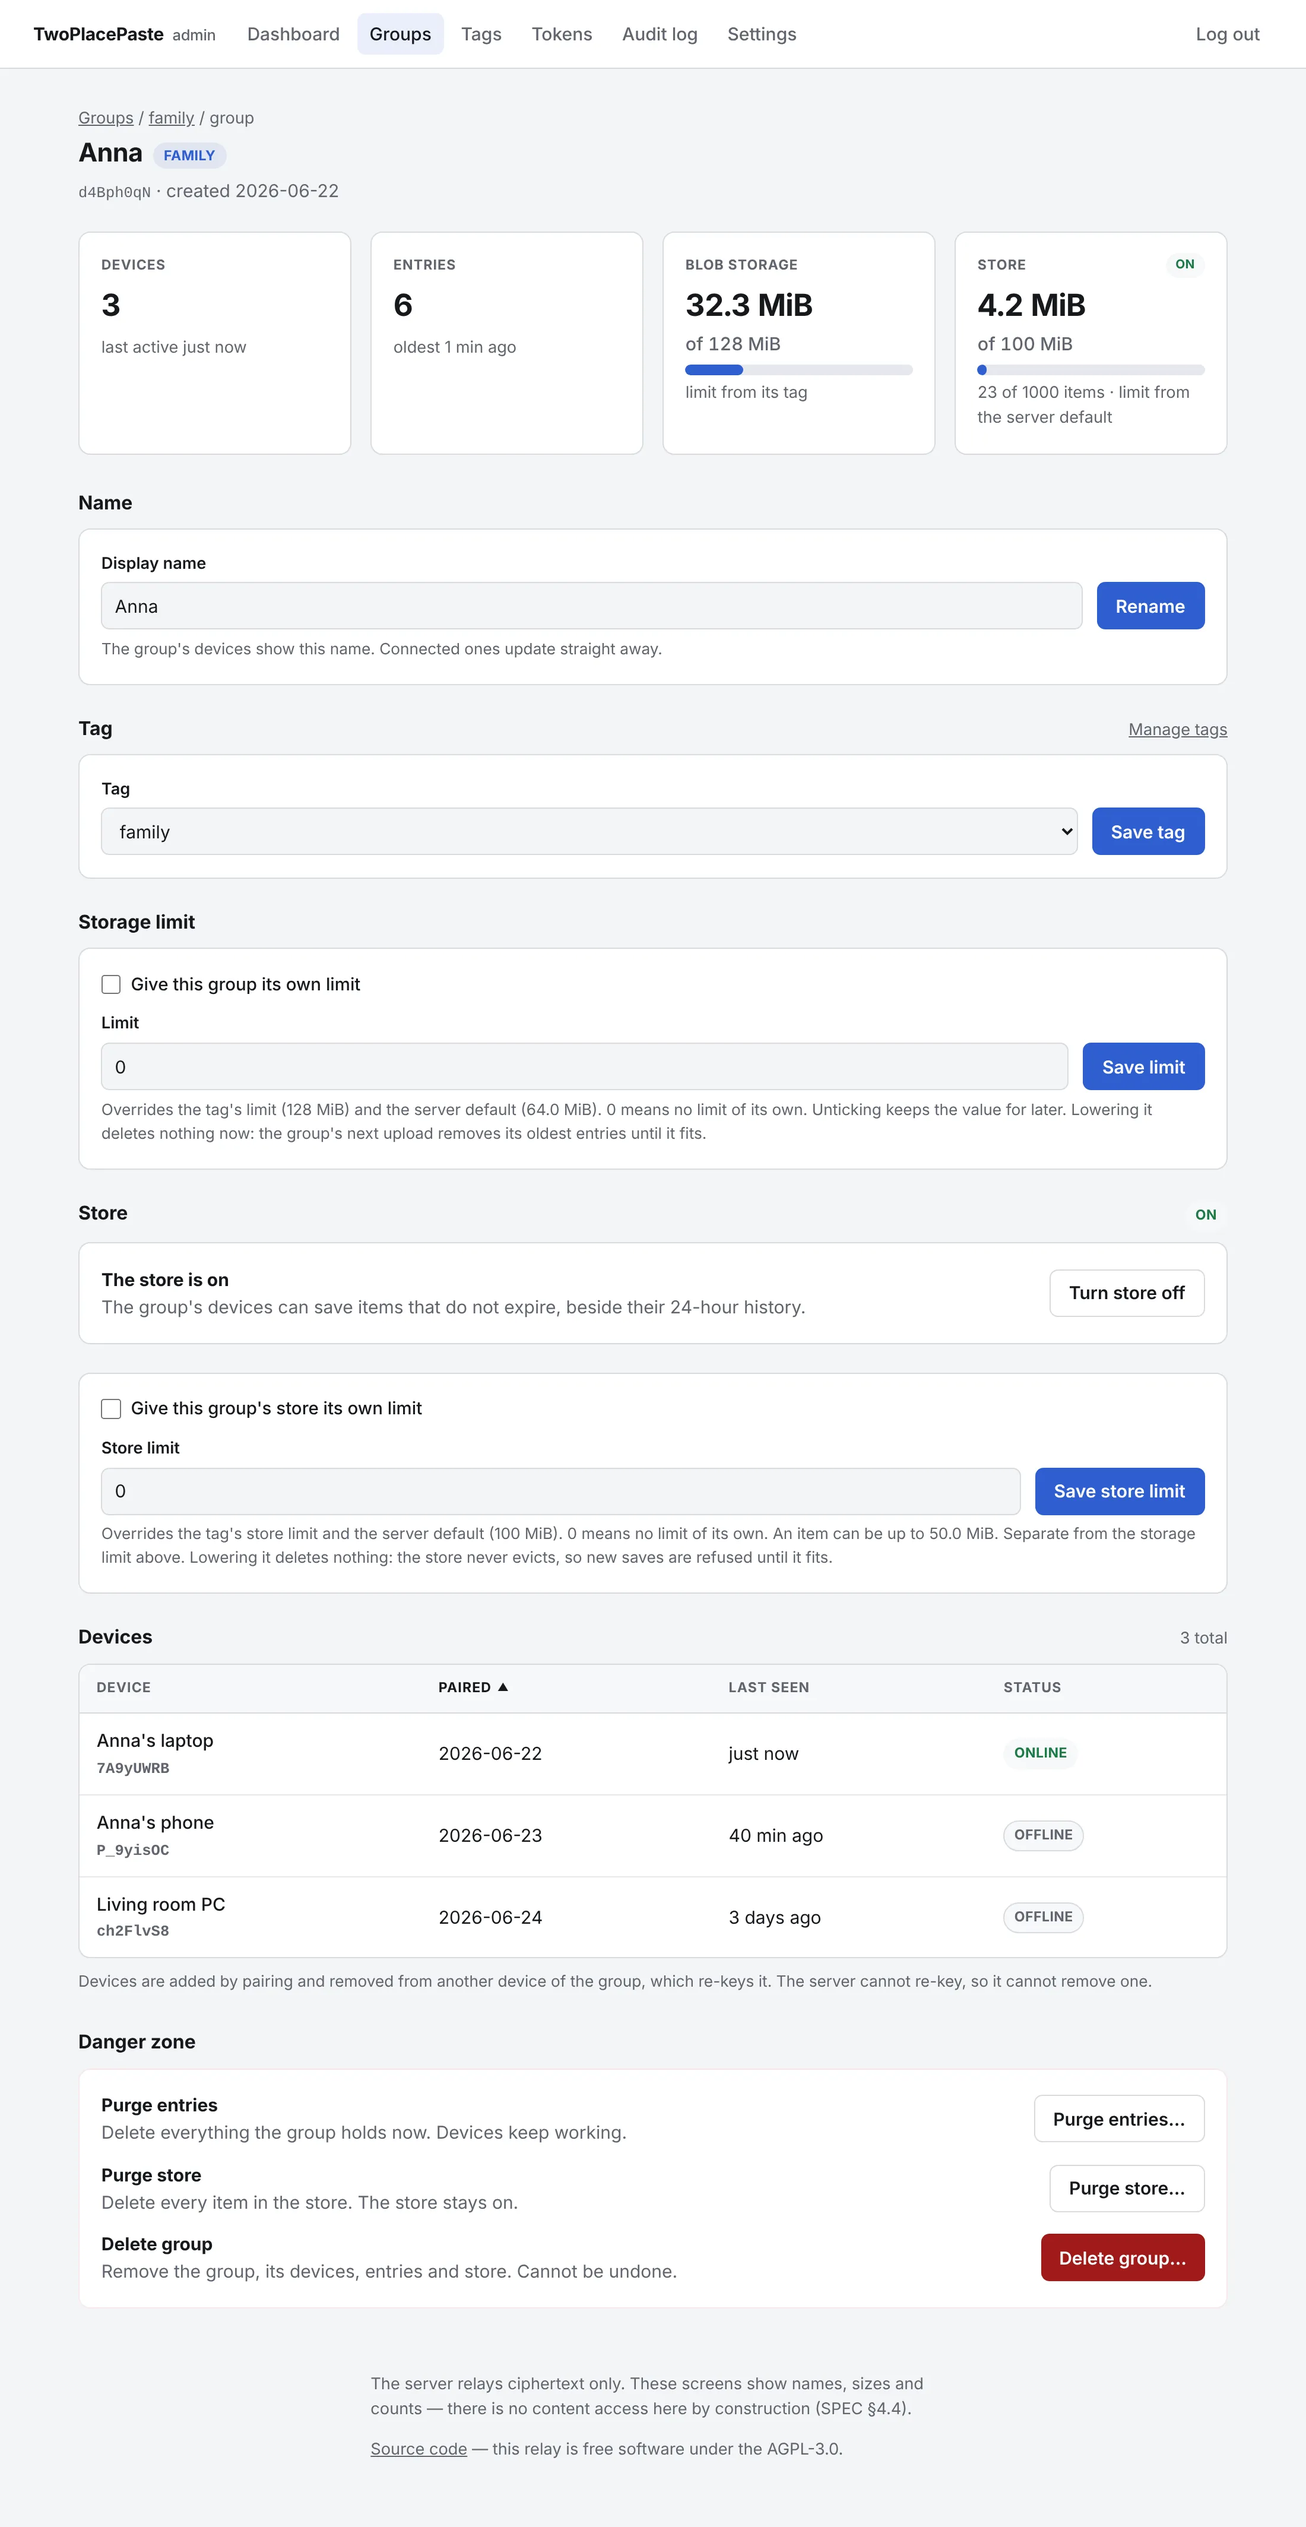
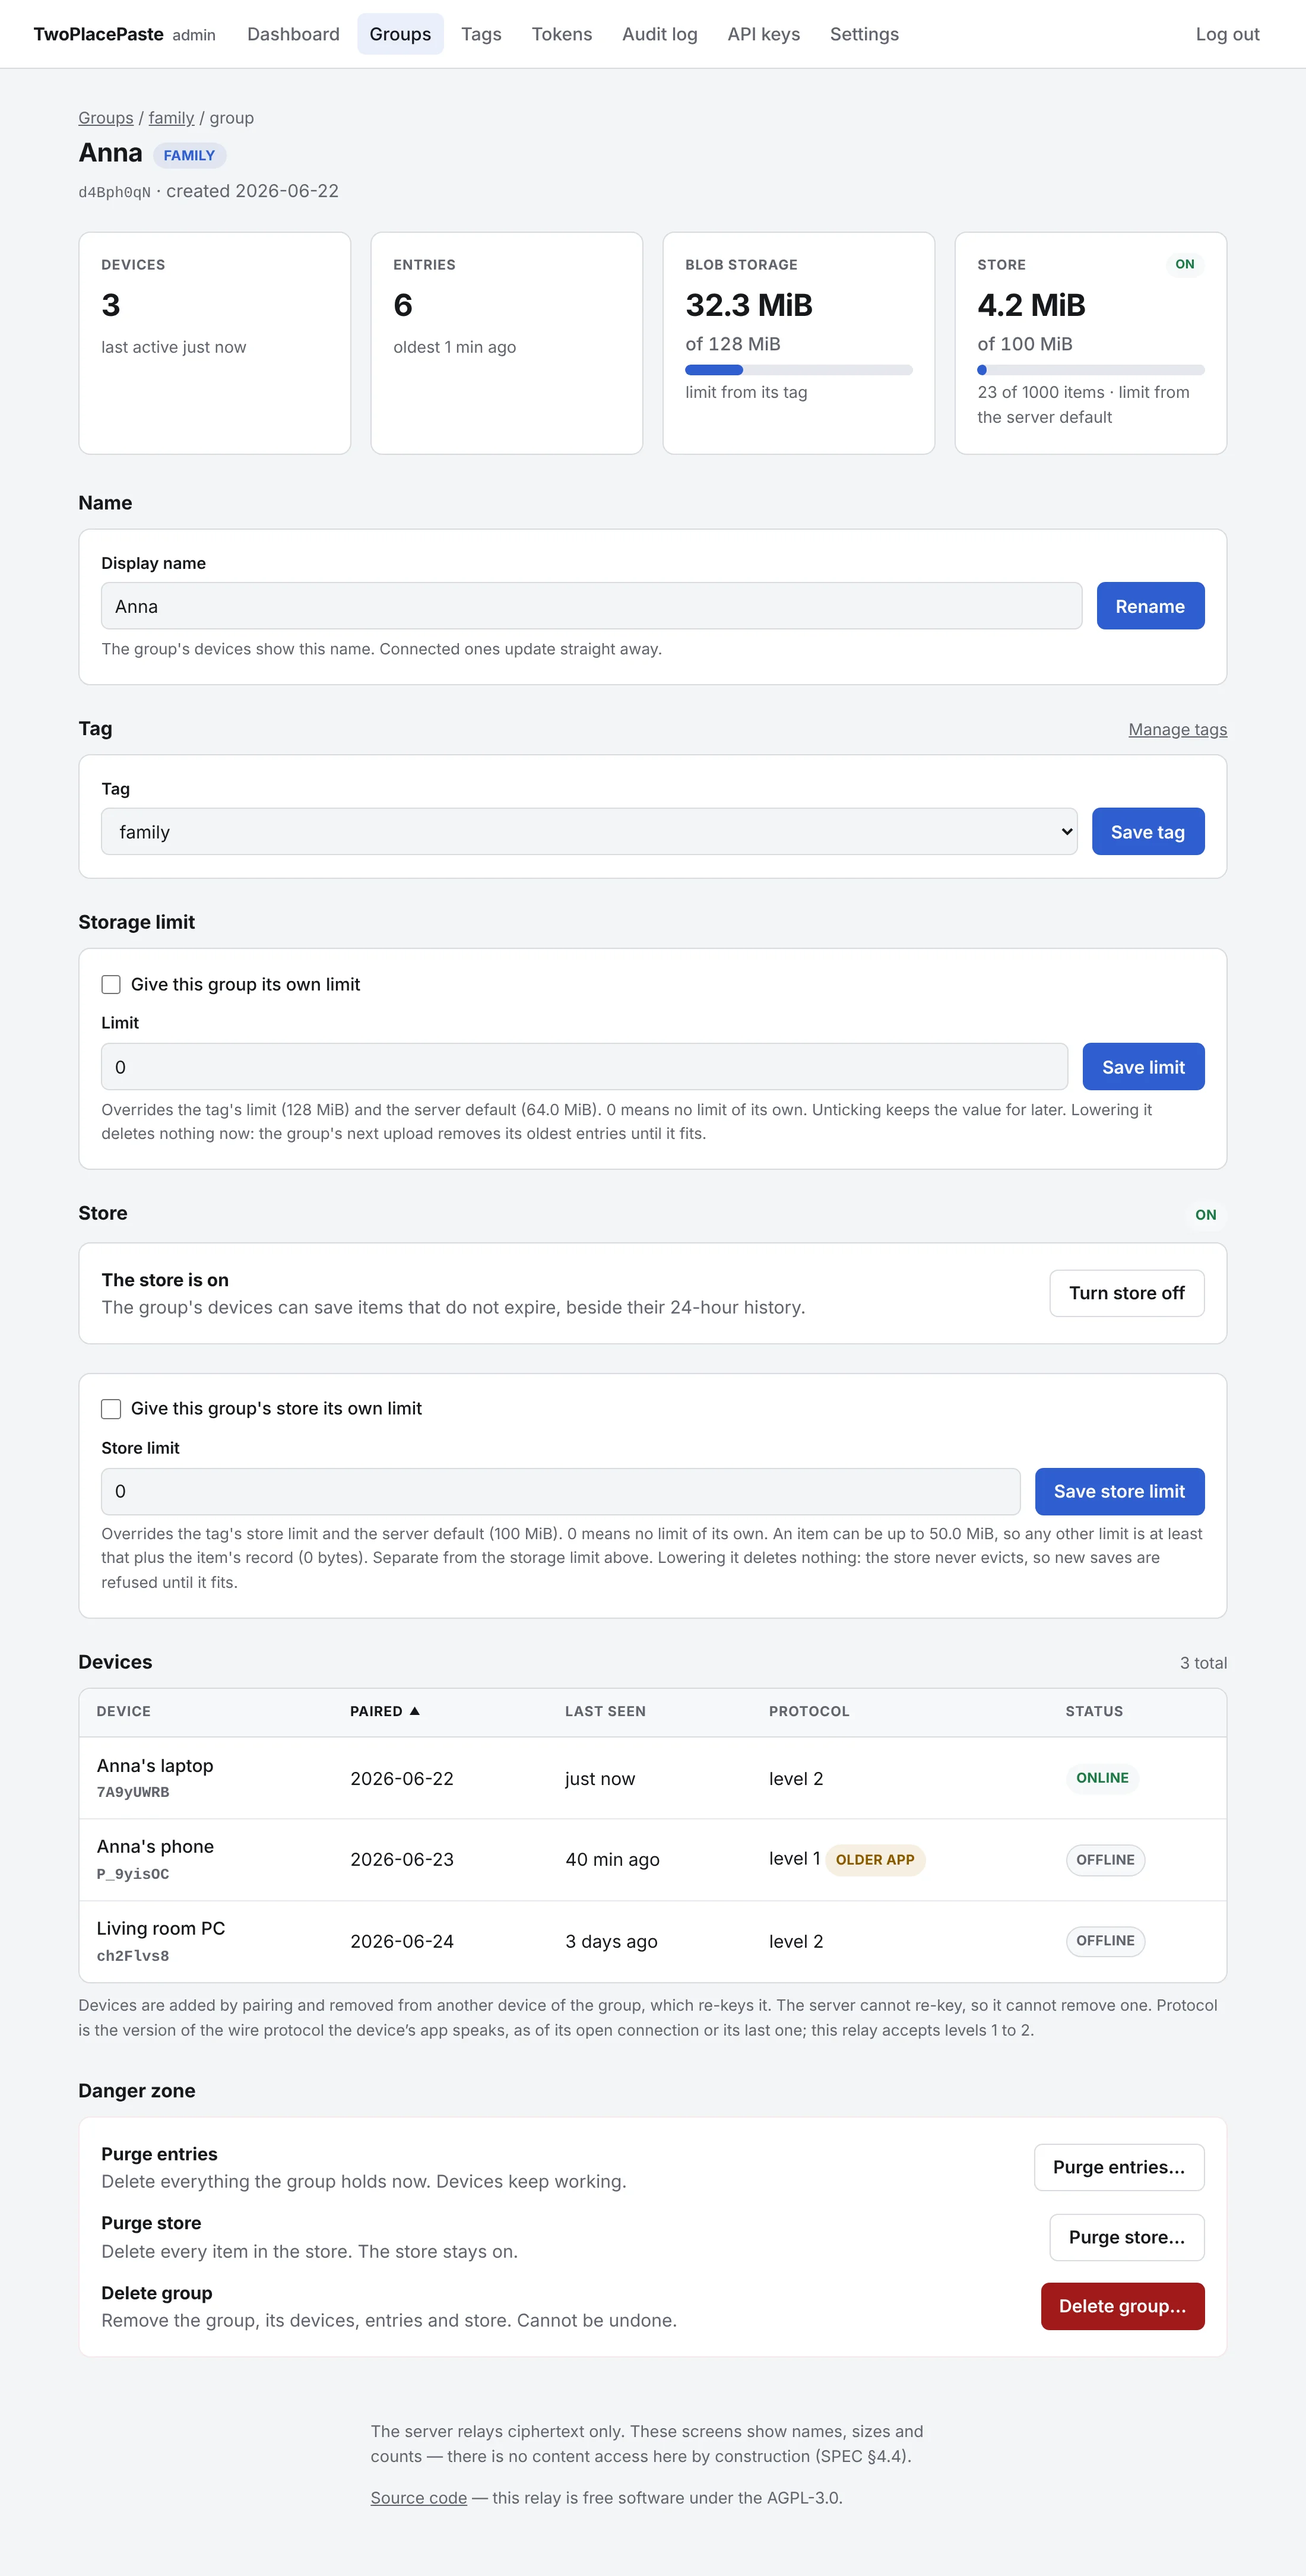
Show each device's protocol level in the admin UI
The group page's device list gains a Protocol column: the level of the
device's open socket while it is online, else the level it last
connected with, else "not known yet" (SPEC §5.3). A device below the
relay's maximum is marked "older app", one below its minimum "update
needed", so an operator sees who an upgrade would leave behind.

- ws: OnlineLevels reports the level each connected device stated.
- admin: the group JSON carries protocol_level per device and the
  relay's accepted range; cmd/tpp passes ws.ProtocolMin/Max in.
- Docs: the column in the admin guide, and a retaken admin-group
  screenshot.

Claude-Session: https://claude.ai/code/session_01VGT5JBQ7Rro1HXKLoBLzLE

diff --git a/server/ui/src/pages/GroupPage.tsx b/server/ui/src/pages/GroupPage.tsx
@@ -1,5 +1,5 @@
 import { useId, useState } from "react";
-import { api, type Device, type GroupDetail, type GroupStore, type LimitChange } from "../api";
+import { api, type Device, type GroupDetail, type GroupStore, type LimitChange, type ProtocolRange } from "../api";
 import { Badge, GroupBadges, StoreBadge } from "../components/Badge";
 import { SectionHead, StatCard } from "../components/Card";
 import { useLimitForm } from "../components/LimitFields";
@@ -380,7 +380,28 @@ function StoreSection({
   );
 }
 
-const deviceColumns: Column<Device>[] = [
+/**
+ * protocolCell shows a device's protocol level, and whether it is behind the
+ * relay: below the minimum it can no longer connect until its app is updated;
+ * below the maximum it works, without what the newer levels added.
+ */
+function protocolCell(d: Device, relay: ProtocolRange) {
+  if (d.protocol_level === null) {
+    return <span className="muted">not known yet</span>;
+  }
+  return (
+    <>
+      level {d.protocol_level}{" "}
+      {d.protocol_level < relay.min ? (
+        <Badge kind="bad">update needed</Badge>
+      ) : d.protocol_level < relay.max ? (
+        <Badge kind="warn">older app</Badge>
+      ) : null}
+    </>
+  );
+}
+
+const deviceColumns = (relay: ProtocolRange): Column<Device>[] => [
   {
     key: "name",
     header: "Device",
@@ -408,6 +429,12 @@ const deviceColumns: Column<Device>[] = [
     render: (d) => ago(Date.now(), d.last_seen, "never"),
   },
   {
+    key: "protocol",
+    header: "Protocol",
+    sortValue: (d) => d.protocol_level ?? 0,
+    render: (d) => protocolCell(d, relay),
+  },
+  {
     key: "status",
     header: "Status",
     firstDir: "desc",
@@ -425,7 +452,7 @@ function Devices({ data }: { data: GroupDetail }) {
       <SmartTable<Device>
         caption="Devices"
         rows={data.devices}
-        columns={deviceColumns}
+        columns={deviceColumns(data.protocol)}
         rowKey={(d) => d.short_id + d.created_at}
         defaultSort={{ key: "paired", dir: "asc" }}
         emptyText="This group has no devices left."
@@ -433,7 +460,9 @@ function Devices({ data }: { data: GroupDetail }) {
       {data.devices.length > 0 && (
         <p className="hint spaced">
           Devices are added by pairing and removed from another device of the group, which re-keys it. The server
-          cannot re-key, so it cannot remove one.
+          cannot re-key, so it cannot remove one. Protocol is the version of the wire protocol the device&rsquo;s app
+          speaks, as of its open connection or its last one; this relay accepts levels {data.protocol.min} to{" "}
+          {data.protocol.max}.
         </p>
       )}
     </>

diff --git a/server/ui/src/api/types.ts b/server/ui/src/api/types.ts
@@ -150,11 +150,24 @@ export interface Device {
   created_at: string;
   last_seen: string | null;
   online: boolean;
+  /**
+   * The protocol level the device speaks: its open socket's while online,
+   * else the last one it connected with. Null before it has connected since
+   * the relay began recording levels.
+   */
+  protocol_level: number | null;
+}
+
+/** ProtocolRange is the lowest and highest protocol level the relay accepts. */
+export interface ProtocolRange {
+  min: number;
+  max: number;
 }
 
 export interface GroupDetail {
   group: Group;
   devices: Device[];
+  protocol: ProtocolRange;
   own_limit: Limit;
   tag_limit_bytes: number | null;
   default_limit_bytes: number;

diff --git a/server/internal/admin/groups_test.go b/server/internal/admin/groups_test.go
@@ -24,13 +24,17 @@ import (
 type fakeLive struct {
 	mu      sync.Mutex
 	online  map[string]bool
+	levels  map[string]uint32
 	renamed map[string]string
 	closed  []string
 	store   map[string]bool
 }
 
 func newFakeLive() *fakeLive {
-	return &fakeLive{online: make(map[string]bool), renamed: make(map[string]string), store: make(map[string]bool)}
+	return &fakeLive{
+		online: make(map[string]bool), levels: make(map[string]uint32),
+		renamed: make(map[string]string), store: make(map[string]bool),
+	}
 }
 
 func (l *fakeLive) OnlineDevices(string) map[string]bool {
@@ -38,6 +42,16 @@ func (l *fakeLive) OnlineDevices(string) map[string]bool {
 	defer l.mu.Unlock()
 	out := make(map[string]bool, len(l.online))
 	for k, v := range l.online {
+		out[k] = v
+	}
+	return out
+}
+
+func (l *fakeLive) OnlineLevels(string) map[string]uint32 {
+	l.mu.Lock()
+	defer l.mu.Unlock()
+	out := make(map[string]uint32, len(l.levels))
+	for k, v := range l.levels {
 		out[k] = v
 	}
 	return out
@@ -126,6 +140,7 @@ func newGroupFixture(t *testing.T, limits quota.Limits, rds admin.RedisInfo) *gr
 		o.Redis = rds
 		o.Version = "v9.9.9 (abc123)"
 		o.OperatorURL = "https://tpp.example.com/help"
+		o.Protocol = admin.ProtocolRange{Min: 1, Max: 2}
 	})
 	return g
 }
@@ -931,5 +946,63 @@ func TestAuditNeverHoldsSecrets(t *testing.T) {
 	}
 	if !strings.Contains(page, `"kept":1000`) || !strings.Contains(page, `"target":"Dora"`) {
 		t.Errorf("audit page = %s, want the kept count and the new token's name", page)
+	}
+}
+
+// TestGroupPageShowsProtocolLevels: each device's protocol level is its open
+// socket's while it is online, else the last one it connected with, and none
+// before it has connected since levels were recorded (SPEC §5.3).
+func TestGroupPageShowsProtocolLevels(t *testing.T) {
+	t.Parallel()
+	g := newGroupFixture(t, quota.Limits{}, nil)
+	ctx := context.Background()
+	id, laptop := g.group(t, "Anna")
+	phone, err := g.store.AddDevice(ctx, id, store.NewDevice{Name: "phone", PublicKey: []byte("pk2")})
+	if err != nil {
+		t.Fatalf("AddDevice() error = %v", err)
+	}
+	if _, err := g.store.AddDevice(ctx, id, store.NewDevice{Name: "tablet", PublicKey: []byte("pk3")}); err != nil {
+		t.Fatalf("AddDevice() error = %v", err)
+	}
+	// The laptop connected at level 1 before and is online at level 2 now;
+	// the phone was last seen at level 1; the tablet never connected.
+	for _, dev := range []string{laptop, phone.ID} {
+		if err := g.store.TouchLastSeen(ctx, dev, 1); err != nil {
+			t.Fatalf("TouchLastSeen() error = %v", err)
+		}
+	}
+	g.live.mu.Lock()
+	g.live.online[laptop] = true
+	g.live.levels[laptop] = 2
+	g.live.mu.Unlock()
+
+	c := g.client()
+	g.login(c)
+	type page struct {
+		Protocol struct {
+			Min uint32 `json:"min"`
+			Max uint32 `json:"max"`
+		} `json:"protocol"`
+		Devices []struct {
+			Name          string  `json:"name"`
+			ProtocolLevel *uint32 `json:"protocol_level"`
+		} `json:"devices"`
+	}
+	got := readJSON[page](t, g.get(c, "/admin/api/groups/"+admin.HandleOf(id)))
+	if got.Protocol.Min != 1 || got.Protocol.Max != 2 {
+		t.Errorf("protocol = %+v, want [1, 2]", got.Protocol)
+	}
+	want := map[string]uint32{"Anna's laptop": 2, "phone": 1, "tablet": 0}
+	for _, d := range got.Devices {
+		var level uint32
+		if d.ProtocolLevel != nil {
+			level = *d.ProtocolLevel
+		}
+		if level != want[d.Name] {
+			t.Errorf("%s protocol_level = %d, want %d (0 meaning none)", d.Name, level, want[d.Name])
+		}
+	}
+	if len(got.Devices) != len(want) {
+		t.Errorf("%d devices, want %d", len(got.Devices), len(want))
 	}
 }

diff --git a/server/internal/admin/groups.go b/server/internal/admin/groups.go
@@ -302,7 +302,16 @@ type groupDetailJSON struct {
 
 	CanPurge bool `json:"can_purge"`
 
+	// Protocol is the range of protocol levels the relay accepts (SPEC
+	// §5.3), for marking devices on an older level.
+	Protocol protocolJSON `json:"protocol"`
+
 	Problems []string `json:"problems"`
+}
+
+type protocolJSON struct {
+	Min uint32 `json:"min"`
+	Max uint32 `json:"max"`
 }
 
 type deviceJSON struct {
@@ -311,6 +320,11 @@ type deviceJSON struct {
 	CreatedAt time.Time  `json:"created_at"`
 	LastSeen  *time.Time `json:"last_seen"`
 	Online    bool       `json:"online"`
+
+	// ProtocolLevel is the level the device speaks: its open socket's when it
+	// is online, else the last one it connected with. Nil when none is known
+	// yet: the device has not connected since the relay began recording.
+	ProtocolLevel *uint32 `json:"protocol_level"`
 }
 
 // groupDetailView builds one group's page.
@@ -332,6 +346,7 @@ func (s *Server) groupDetailView(ctx context.Context, g store.Group) groupDetail
 		MinLimitBytes:     s.minLimit(),
 		Tags:              make([]string, 0, len(tags)),
 		CanPurge:          s.purger != nil,
+		Protocol:          protocolJSON{Min: s.protocol.Min, Max: s.protocol.Max},
 	}
 	if t, ok := tags[g.Tag]; ok && t.Limit.Enabled {
 		b := t.Limit.Bytes
@@ -343,17 +358,22 @@ func (s *Server) groupDetailView(ctx context.Context, g store.Group) groupDetail
 	}
 	slices.Sort(v.Tags)
 
-	var online map[string]bool
+	var (
+		online map[string]bool
+		levels map[string]uint32
+	)
 	if s.live != nil {
 		online = s.live.OnlineDevices(g.ID)
+		levels = s.live.OnlineLevels(g.ID)
 	}
 	for _, d := range devices {
 		v.Devices = append(v.Devices, deviceJSON{
-			ShortID:   shortID(d.ID),
-			Name:      d.Name,
-			CreatedAt: d.CreatedAt.UTC(),
-			LastSeen:  timeOrNil(d.LastSeen),
-			Online:    online[d.ID],
+			ShortID:       shortID(d.ID),
+			Name:          d.Name,
+			CreatedAt:     d.CreatedAt.UTC(),
+			LastSeen:      timeOrNil(d.LastSeen),
+			Online:        online[d.ID],
+			ProtocolLevel: deviceLevel(d, levels),
 		})
 	}
 	v.Problems = probs.list
@@ -704,4 +724,17 @@ func plural[N ~int | ~int64](n N, one, many string) string {
 		return one
 	}
 	return many
+}
+
+// deviceLevel is the protocol level to show for a device: its open socket's,
+// else the last one it connected with, else none.
+func deviceLevel(d store.Device, live map[string]uint32) *uint32 {
+	level, ok := live[d.ID]
+	if !ok || level == 0 {
+		level = d.ProtocolLevel
+	}
+	if level == 0 {
+		return nil
+	}
+	return &level
 }

diff --git a/server/internal/admin/admin.go b/server/internal/admin/admin.go
@@ -106,8 +106,16 @@ type Store interface {
 // and telling a group's devices that it was renamed or deleted.
 type Live interface {
 	OnlineDevices(groupID string) map[string]bool
+	// OnlineLevels is the protocol level each connected device stated on its
+	// socket (SPEC §5.3).
+	OnlineLevels(groupID string) map[string]uint32
 	AnnounceRename(ctx context.Context, groupID, name string)
 	CloseGroup(groupID string)
+}
+
+// ProtocolRange is the lowest and highest protocol level the relay accepts.
+type ProtocolRange struct {
+	Min, Max uint32
 }
 
 // Purger deletes every entry of a group now.
@@ -196,6 +204,10 @@ type Options struct {
 	// shown on the health card with a button that opens it. Empty when none
 	// is set.
 	OperatorURL string
+
+	// Protocol is the range of protocol levels the relay accepts (SPEC
+	// §5.3), so the device list can mark a device on an older level.
+	Protocol ProtocolRange
 
 	// SessionTTL bounds a session's lifetime.
 	SessionTTL time.Duration
@@ -361,6 +373,7 @@ type Server struct {
 	dashboard Dashboard
 
 	live        Live
+	protocol    ProtocolRange
 	purger      Purger
 	limits      GroupLimits
 	storeSvc    StoreService
@@ -453,6 +466,7 @@ func New(st Store, opts Options) (*Server, error) {
 		version:       opts.Version,
 		startedAt:     startedAt,
 		operatorURL:   opts.OperatorURL,
+		protocol:      opts.Protocol,
 		logger:        logger,
 		now:           now,
 		baseURL:       base,

diff --git a/server/internal/ws/hub.go b/server/internal/ws/hub.go
@@ -187,6 +187,20 @@ func (h *Hub) online(groupID string) map[string]bool {
 	return out
 }
 
+// onlineLevels reports the protocol level of each device of a group that holds
+// a socket right now (SPEC §5.3).
+func (h *Hub) onlineLevels(groupID string) map[string]uint32 {
+	h.mu.RLock()
+	defer h.mu.RUnlock()
+	out := make(map[string]uint32, len(h.groups[groupID]))
+	for c := range h.groups[groupID] {
+		if deviceID, _ := c.identity(); deviceID != "" {
+			out[deviceID] = c.protocolLevel
+		}
+	}
+	return out
+}
+
 // closeGroup closes every connection of a group and reports how many.
 func (h *Hub) closeGroup(groupID string, status websocket.StatusCode, reason string) int {
 	h.mu.RLock()

diff --git a/server/internal/ws/server.go b/server/internal/ws/server.go
@@ -223,6 +223,12 @@ func (s *Server) OnlineDevices(groupID string) map[string]bool {
 	return s.hub.online(groupID)
 }
 
+// OnlineLevels reports the protocol level each connected device of a group
+// stated on its socket (SPEC §5.3), for the admin UI's device list.
+func (s *Server) OnlineLevels(groupID string) map[string]uint32 {
+	return s.hub.onlineLevels(groupID)
+}
+
 // CloseGroup closes every socket of a group the admin has just deleted, with
 // GroupDeletedCloseCode. The store has already deleted the devices, so a
 // reconnect is refused with 410.

diff --git a/server/cmd/tpp/main.go b/server/cmd/tpp/main.go
@@ -249,6 +249,7 @@ func serve(args []string) error {
 		},
 		Logger:    logger,
 		Live:      wsSrv,
+		Protocol:  admin.ProtocolRange{Min: ws.ProtocolMin, Max: ws.ProtocolMax},
 		Purger:    entrySvc,
 		Limits:    ledger,
 		Store:     storeSvc,
